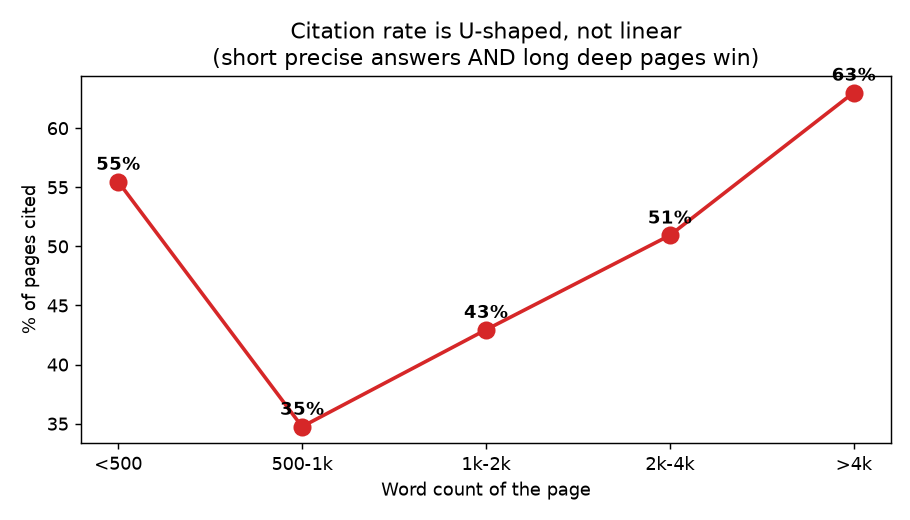
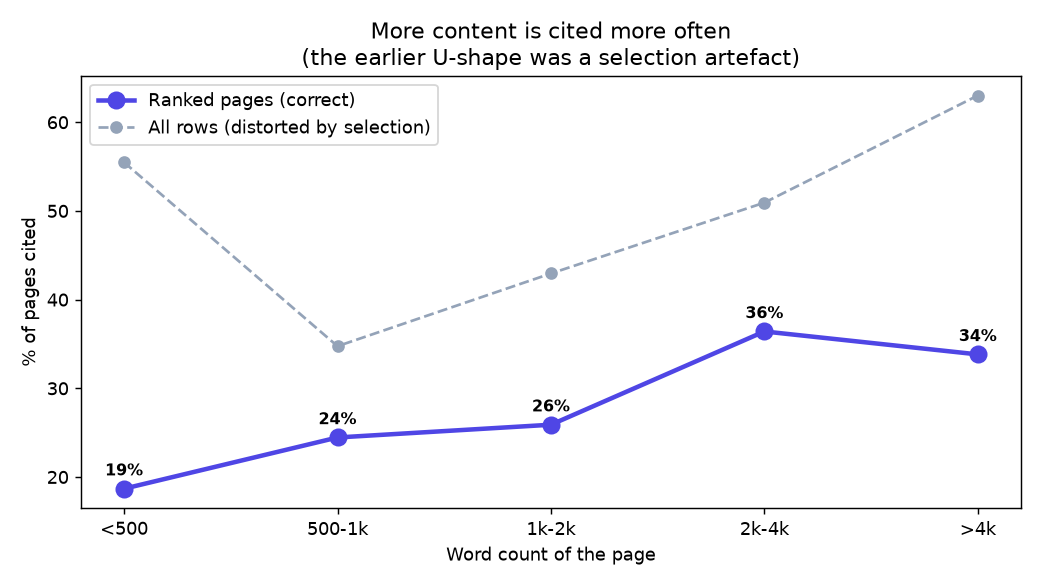
Add artifact audit: recheck all descriptive findings on the clean population

diff --git a/scripts/audit_artifacts.py b/scripts/audit_artifacts.py
@@ -1,0 +1,157 @@
+#!/usr/bin/env python3
+"""Artifact audit - re-check every descriptive finding on the clean population.
+
+Why this exists
+---------------
+The dataset contains 1,789 "rank-101" rows: pages the AI Overview cited that
+never appeared in Google's visible results. They are in the data *only because*
+they were cited, so every one of them has ``cited = 1`` by construction.
+
+Any descriptive statistic computed over all rows is therefore distorted wherever
+those rows cluster. Two published findings turned out to be exactly that:
+
+  * "YouTube is cited 95% of the time" - 92% of its rows were rank-101. Among
+    YouTube pages that genuinely rank, the rate is 36%.
+  * "Citation rate is U-shaped in word count" - the short-page peak was made
+    entirely of rank-101 rows. On ranked pages the relationship rises with
+    length instead.
+
+This script recomputes each descriptive finding both ways so the distortion is
+visible rather than assumed. Anything where the two columns diverge should be
+reported on the ranked-page population only.
+
+Query-level findings (intent segments, SERP features, sources per answer) are
+not affected: rank-101 is a page-level artefact, and those statistics count
+queries.
+
+    python scripts/audit_artifacts.py --data data/raw/real.csv
+"""
+
+from __future__ import annotations
+
+import argparse
+from pathlib import Path
+
+import matplotlib
+
+matplotlib.use("Agg")
+import matplotlib.pyplot as plt
+import pandas as pd
+
+RESULTS = Path("reports/results")
+FIGURES = Path("reports/figures")
+
+
+def compare(all_rows: pd.DataFrame, ranked: pd.DataFrame, mask_col: str, label: str) -> dict:
+    """Citation rate for a binary flag, computed both ways.
+
+    The comparison is *lift over the population baseline*, not the raw rate: the
+    baseline itself shifts (48% -> 29%) when the always-cited rows are removed,
+    so raw rates always look different. What matters is whether the group still
+    stands out from its own population by the same amount.
+    """
+    a = all_rows[all_rows[mask_col] == 1]["cited"].mean() if (all_rows[mask_col] == 1).any() else float("nan")
+    r = ranked[ranked[mask_col] == 1]["cited"].mean() if (ranked[mask_col] == 1).any() else float("nan")
+    lift_a = a / all_rows["cited"].mean()
+    lift_r = r / ranked["cited"].mean()
+    n_r = int((ranked[mask_col] == 1).sum())
+    # Flag when the group's standing relative to its population materially changes.
+    distorted = bool(abs(lift_a - lift_r) > 0.30 or (lift_a - 1) * (lift_r - 1) < 0)
+    return {"finding": label, "all_rows": round(a, 3), "ranked_only": round(r, 3),
+            "lift_all": round(lift_a, 2), "lift_ranked": round(lift_r, 2),
+            "n_ranked": n_r, "distorted": distorted}
+
+
+def main() -> None:
+    p = argparse.ArgumentParser(description=__doc__,
+                                formatter_class=argparse.RawDescriptionHelpFormatter)
+    p.add_argument("--data", default="data/raw/real.csv")
+    args = p.parse_args()
+
+    df = pd.read_csv(args.data)
+    df["is_101"] = (df["organic_rank"] == 101).astype(int)
+    ranked = df[df["is_101"] == 0].copy()
+
+    print("=" * 74)
+    print("  ARTIFACT AUDIT")
+    print(f"  All rows: {len(df):,} ({df['cited'].mean():.1%} cited)   "
+          f"Ranked only: {len(ranked):,} ({ranked['cited'].mean():.1%} cited)")
+    print(f"  rank-101 rows removed: {int(df['is_101'].sum()):,} - all cited by construction")
+    print("=" * 74)
+
+    # ---- Binary page flags
+    rows = []
+    for col, label in [("is_video", "Video pages"), ("is_forum", "Forum pages"),
+                       ("has_schema", "Has schema markup"), ("has_faq", "Has FAQ section"),
+                       ("is_https", "Uses HTTPS")]:
+        if col in df.columns:
+            rows.append(compare(df, ranked, col, label))
+
+    print(f"\n  Lift = how far the group stands out from its own population's baseline.")
+    print(f"  {'finding':26s} {'lift all':>9s} {'lift ranked':>12s} {'n':>7s}   verdict")
+    for r in rows:
+        verdict = "DISTORTED" if r["distorted"] else "ok"
+        print(f"  {r['finding']:26s} {r['lift_all']:8.2f}x {r['lift_ranked']:11.2f}x "
+              f"{r['n_ranked']:7d}   {verdict}")
+
+    # ---- Word-count curve, both ways
+    def curve(d):
+        d = d.copy()
+        d["b"] = pd.cut(d["word_count"], bins=[0, 500, 1000, 2000, 4000, 100000],
+                        labels=["<500", "500-1k", "1k-2k", "2k-4k", ">4k"])
+        return d.groupby("b", observed=True)["cited"].agg(["mean", "size"])
+
+    c_all, c_ranked = curve(df), curve(ranked)
+    print(f"\n  Word count vs citation rate")
+    print(f"  {'bucket':10s} {'all rows':>10s} {'ranked only':>13s} {'n ranked':>10s}")
+    for b in c_ranked.index:
+        a = c_all.loc[b, "mean"] if b in c_all.index else float("nan")
+        r = c_ranked.loc[b, "mean"]
+        print(f"  {b:10s} {a:9.1%} {r:12.1%} {int(c_ranked.loc[b, 'size']):10d}")
+    print("  -> the short-page peak in the all-rows column is the artefact;")
+    print("     on ranked pages citation rate rises with length and plateaus.")
+
+    # ---- Where do the rank-101 rows concentrate?
+    print(f"\n  Where the rank-101 rows cluster (share of each group that is rank-101):")
+    for col, label in [("is_video", "Video pages"), ("is_forum", "Forum pages")]:
+        if col in df.columns and (df[col] == 1).any():
+            share = df[df[col] == 1]["is_101"].mean()
+            print(f"    {label:22s} {share:.0%}")
+    short = df[df["word_count"] < 500]
+    print(f"    {'Pages under 500 words':22s} {short['is_101'].mean():.0%}")
+
+    out = pd.DataFrame(rows)
+    RESULTS.mkdir(parents=True, exist_ok=True)
+    out.to_csv(RESULTS / "artifact_audit.csv", index=False)
+
+    # ---- Corrected word-count chart (replaces the U-curve figure)
+    FIGURES.mkdir(parents=True, exist_ok=True)
+    fig, ax = plt.subplots(figsize=(8, 4.5))
+    x = range(len(c_ranked))
+    ax.plot(x, c_ranked["mean"] * 100, marker="o", linewidth=2.5, markersize=9,
+            color="#4F46E5", label="Ranked pages (correct)")
+    ax.plot(x, [c_all.loc[b, "mean"] * 100 for b in c_ranked.index], marker="o",
+            linewidth=1.5, markersize=6, linestyle="--", color="#94A3B8",
+            label="All rows (distorted by selection)")
+    ax.set_xticks(list(x))
+    ax.set_xticklabels(c_ranked.index)
+    ax.set_xlabel("Word count of the page")
+    ax.set_ylabel("% of pages cited")
+    ax.set_title("More content is cited more often\n(the earlier U-shape was a selection artefact)")
+    ax.legend()
+    for i, v in enumerate(c_ranked["mean"] * 100):
+        ax.text(i, v + 1.5, f"{v:.0f}%", ha="center", fontweight="bold", fontsize=9)
+    fig.tight_layout()
+    fig.savefig(FIGURES / "insight_5_wordcount_curve.png", dpi=130)
+    plt.close(fig)
+
+    print(f"\n  Table -> {RESULTS}/artifact_audit.csv")
+    print(f"  Chart -> {FIGURES}/insight_5_wordcount_curve.png  (corrected, shows both lines)")
+    print("\n  Not affected (query-level statistics, not page-level):")
+    print("    intent segments, SERP-feature predictors, sources per AI Overview,")
+    print("    and the passage analysis (its control group is sentences from the")
+    print("    same pages, so selection into the dataset cancels out).")
+
+
+if __name__ == "__main__":
+    main()

diff --git a/README.md b/README.md
@@ -54,35 +54,33 @@ used that instead.*
 
 ## Finding 2 — The model works, and it beats the obvious answer
 
-Two leakage-safe framings (see the audit section below for why there are two):
+All models below are evaluated on **one population** — the 4,857 pages Google
+actually ranks — so the numbers are directly comparable with no caveats.
 
-**Variant A — among pages Google already ranks, which get cited?** (4,857 rows)
+| Model | PR-AUC | ROC-AUC | vs. random |
+|---|---|---|---|
+| Random guessing | 0.291 | 0.500 | 1.00x |
+| Rank-only heuristic ("just trust the ranking") | 0.368 | 0.616 | 1.27x |
+| Logistic Regression (content + rank) | 0.437 | 0.669 | 1.50x |
+| **LightGBM — content signals only** | **0.523** | 0.724 | **1.80x** |
+| **LightGBM — content + rank** | **0.568** | 0.754 | **1.95x** |
 
-| Model | PR-AUC | ROC-AUC |
-|---|---|---|
-| **LightGBM** | **0.583** | 0.760 |
-| Logistic Regression | 0.442 | 0.670 |
-| Rank-only guess | 0.369 | 0.617 |
-| Random guessing | 0.291 | 0.500 |
+The standard SEO assumption is "rank well and you get cited". That scores 0.368.
+**Content signals alone — with the ranking removed entirely — score 0.523.**
+On identical pages, what a page says predicts citation better than where it sits.
 
-**Variant B — what content signals decide it, ignoring rank?** (6,646 rows)
-
-| Model | PR-AUC | ROC-AUC |
-|---|---|---|
-| **LightGBM** | **0.770** | 0.770 |
-| Logistic Regression | 0.658 | 0.666 |
-| Rank-only guess | 0.433 | 0.272 |
-| Random guessing | 0.482 | 0.500 |
-
-The naive assumption in SEO is "rank well and you'll get cited". That baseline
-scores 0.369. The content model scores 0.583 — **content carries real information
-on top of ranking.** In variant B the rank-only baseline scores *below random* on
-ROC-AUC, because many cited pages don't rank in the visible results at all.
+*Note on why one population: an earlier framing kept "cited but not ranked" pages
+(given a placeholder rank of 101) and just dropped the rank feature. That looked
+safe but wasn't — all such rows are cited by construction, and they differ
+systematically (≈9x more likely to be video pages), so the model could identify
+that always-cited subgroup through other features. Evaluated on genuinely ranked
+pages, that variant scored 0.479 — worse than a model trained only on ranked
+pages. It was dropped. See `scripts/run_headline_comparison.py`.*
 
 ![Feature importance](https://github.com/fabo-lab/aio-gap-miner/raw/main/reports/figures/shap_importance_variant_B.png)
 
-Both variants surface the same top drivers: **content depth, topic match to the
-search, readability, and best passage match.**
+Top drivers: **content depth, topic match to the search, readability, and best
+passage match.**
 
 ### Content length isn't linear
 
@@ -97,25 +95,23 @@ line can't represent this.
 
 ## Finding 3 — It holds up under pressure
 
-| Check | Variant A | Variant B |
-|---|---|---|
-| Held-out test (107 unseen searches) | PR-AUC 0.535 | PR-AUC **0.711** |
-| Calibration error (0 = perfect) | 0.131 | **0.042** |
-| Top-4 features shared by all 5 folds | 3/4 | 3/4 |
-| SHAP vs permutation importance agreement | **5/5** | 4/5 |
+| Check | Result |
+|---|---|
+| Held-out test (107 searches never seen in training) | PR-AUC **0.535** vs 0.240 prevalence → **2.23x** |
+| Top-4 features shared by all 5 CV folds | 3 of 4, importances varying under 13% |
+| SHAP vs permutation importance | **5 of 5** top features agree |
+| Calibration error | 0.131 — see below |
 
 ![SHAP stability](https://github.com/fabo-lab/aio-gap-miner/raw/main/reports/figures/hardening_shap_stability.png)
 
-Variant B is **well calibrated** — when it says "70% likely", it's right about 70%
-of the time. Variant A is not (it says 88% when reality is 62%), so B is the one
-to trust for probabilities. Variant A, on the other hand, has perfect agreement
-between two independent importance methods. Both are reported honestly rather
-than picking a winner.
+Two independent importance methods — SHAP and permutation importance — agree on
+all five top features. The story doesn't change depending on how the data is split.
 
-Feature importances vary by under 8% between folds — the story doesn't change
-depending on how the data is split.
-
----
+**One honest weakness:** the model is well *ranked* but not well *calibrated*. It
+ranks pages correctly, but its raw probabilities are optimistic (it says 88% where
+reality is 62%). So the scores should be used to prioritise pages, not read as
+literal probabilities. Calibrating it (e.g. isotonic regression on a held-out set)
+is the obvious next step.
 
 ## Finding 4 — What Google actually lifts, sentence by sentence
 